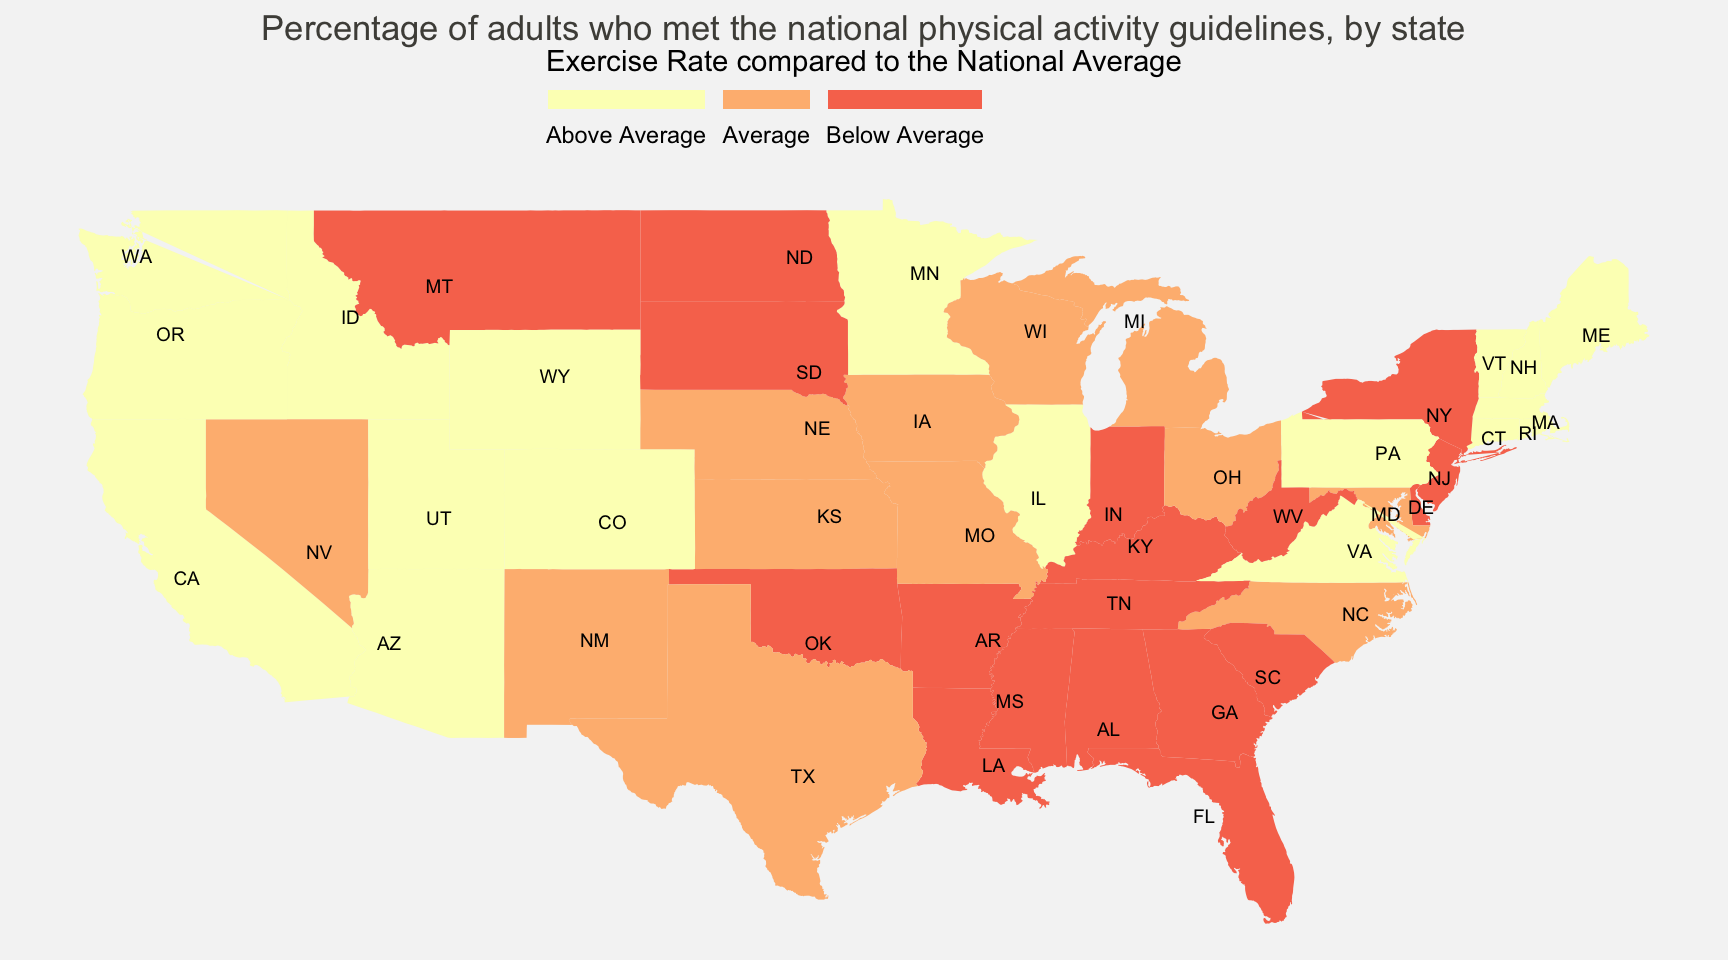
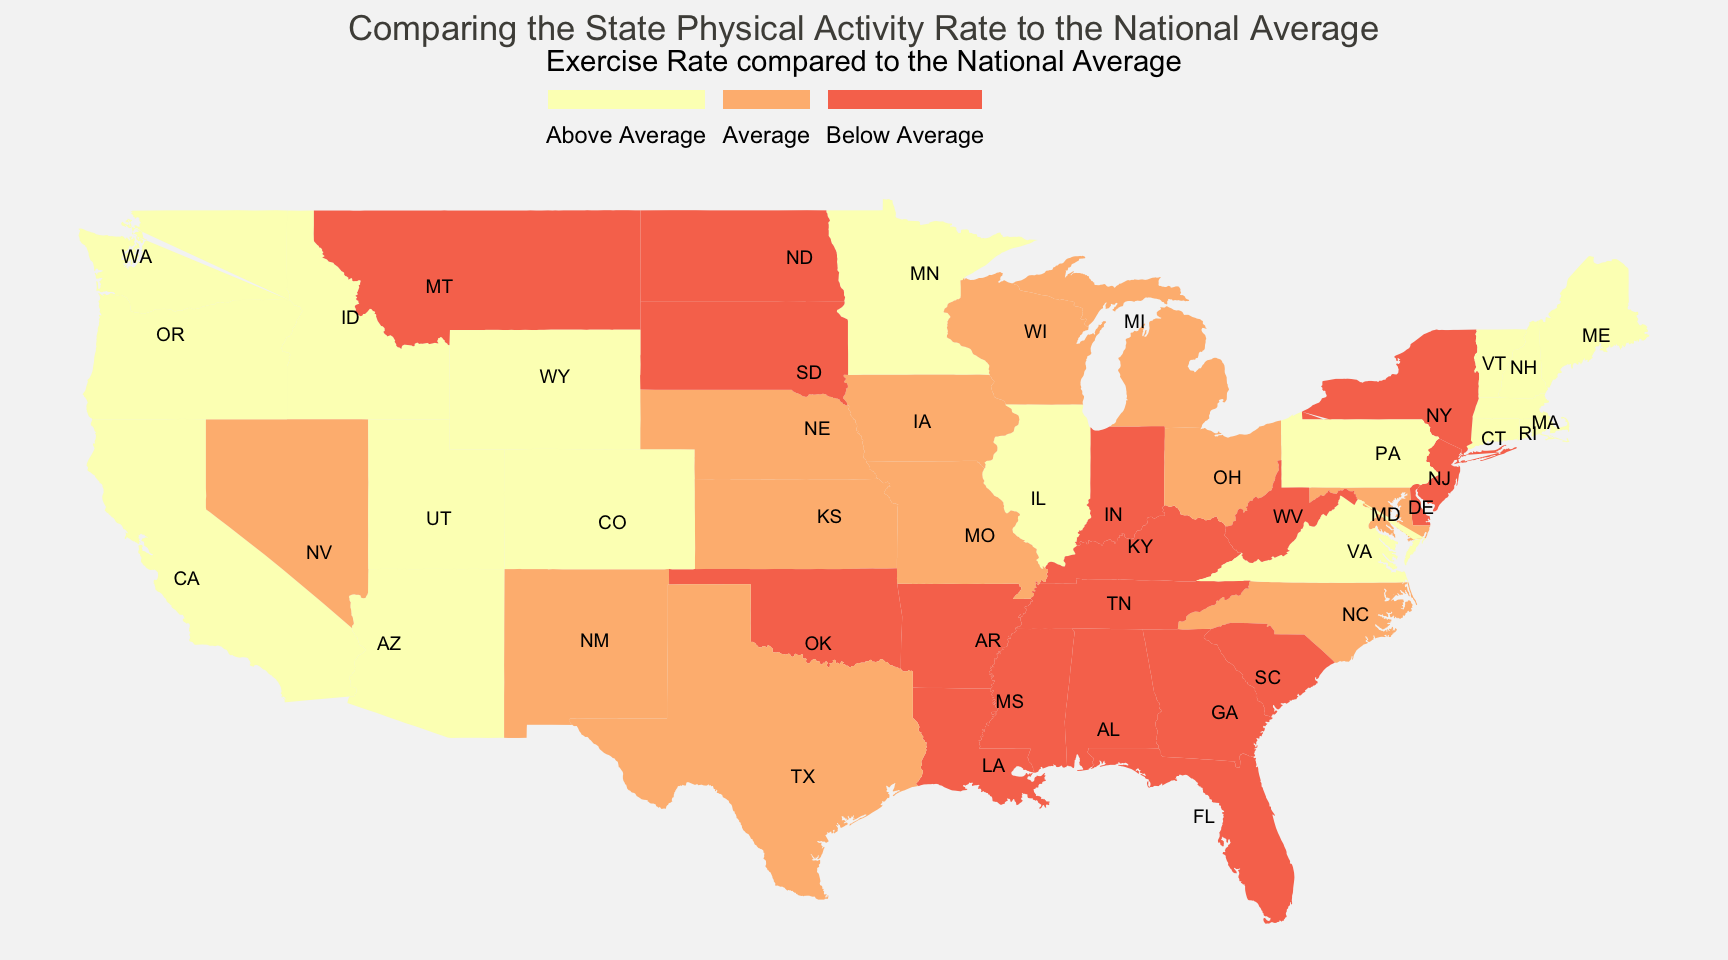
Built site for gh-pages

Changed region(s): [[0.1562, 0.0, 0.8438, 0.0625]]

diff --git a/posts/week01/index.html b/posts/week01/index.html
@@ -423,7 +423,7 @@ Note
 <div id="fig-statecomparison2" class="quarto-figure quarto-figure-center anchored">
 <figure class="figure">
 <p><img src="index_files/figure-html/fig-statecomparison2-1.png" class="img-fluid figure-img" width="864"></p>
-<p></p><figcaption class="figure-caption">Figure 3: This figure shows the percentage of adults in each state who met the Physical Activity Guidelines. The percentage in each state is compared to the National Average 22 percent, and is categorised into 3 groups, namely Above Average, Average and Below Average. Counties in the central such as Colorado and Utah as well as along the west coasts such as California are much more active. In contrast, most of the states in the southeast are below than the national average, such as Kentucky, Mississippi, West Virginia, Georgia and South Carolina.</figcaption><p></p>
+<p></p><figcaption class="figure-caption">Figure 3: This figure compares the State Physical Activity Rate to the National Average - 22 percent, and is categorised into 3 groups, namely Above Average, Average and Below Average. Counties in the central such as Colorado and Utah as well as along the west coasts such as California are much more active. In contrast, most of the states in the southeast are below than the national average, such as Kentucky, Mississippi, West Virginia, Georgia and South Carolina.</figcaption><p></p>
 </figure>
 </div>
 </div>
@@ -442,8 +442,8 @@ Note
 <div id="fig-ranking" class="quarto-figure quarto-figure-center anchored">
 <figure class="figure">
 
-<div id="htmlwidget-1b0934843827ede45c94" class="reactable html-widget" style="width:auto;height:auto;"></div>
-<script type="application/json" data-for="htmlwidget-1b0934843827ede45c94">{"x":{"tag":{"name":"Reactable","attribs":{"data":{"State":["COLORADO","IDAHO","NEW HAMPSHIRE","MASSACHUSETTS","VERMONT","UTAH","WASHINGTON","MINNESOTA","WYOMING","ARIZONA","OREGON","PENNSYLVANIA","RHODE ISLAND","CALIFORNIA","CONNECTICUT","ILLINOIS","MAINE","VIRGINIA","KANSAS","MICHIGAN","MISSOURI","NEBRASKA","NEVADA","NEW MEXICO","OHIO","TEXAS","WISCONSIN","IOWA","MARYLAND","NORTH CAROLINA","FLORIDA","NEW JERSEY","DELAWARE","GEORGIA","LOUISIANA","MONTANA","NORTH DAKOTA","ALABAMA","OKLAHOMA","NEW YORK","SOUTH DAKOTA","TENNESSEE","WEST VIRGINIA","ARKANSAS","INDIANA","KENTUCKY","SOUTH CAROLINA","MISSISSIPPI"],"Adults reaching the National Physical Guidelines (%)":[32,31,30,29,29,28,28,27,27,26,25,25,25,24,24,24,24,24,23,23,23,23,23,23,23,23,23,22,22,22,21,21,20,20,20,20,20,19,19,18,17,17,16,15,15,14,14,13],"Ranking":[1,2,3,4,5,6,7,8,9,10,11,12,13,14,15,16,17,18,19,20,21,22,23,24,25,26,27,28,29,30,31,32,33,34,35,36,37,38,39,40,41,42,43,44,45,46,47,48]},"columns":[{"accessor":"State","name":"State","type":"character"},{"accessor":"Adults reaching the National Physical Guidelines (%)","name":"Adults reaching the National Physical Guidelines (%)","type":"numeric"},{"accessor":"Ranking","name":"Ranking","type":"numeric"}],"searchable":true,"defaultSorted":[{"id":"Ranking","desc":false}],"defaultPageSize":5,"paginationType":"jump","showPageInfo":true,"minRows":5,"theme":{"borderColor":"#dfe2e5","stripedColor":"#f6f8fa","highlightColor":"#f0f5f9","style":{"fontFamily":"sans-serif"}},"dataKey":"43b48f15bfbcdfe8797e82bcba1de035"},"children":[]},"class":"reactR_markup"},"evals":[],"jsHooks":[]}</script>
+<div id="htmlwidget-e278629da506dac7e636" class="reactable html-widget" style="width:auto;height:auto;"></div>
+<script type="application/json" data-for="htmlwidget-e278629da506dac7e636">{"x":{"tag":{"name":"Reactable","attribs":{"data":{"State":["COLORADO","IDAHO","NEW HAMPSHIRE","MASSACHUSETTS","VERMONT","UTAH","WASHINGTON","MINNESOTA","WYOMING","ARIZONA","OREGON","PENNSYLVANIA","RHODE ISLAND","CALIFORNIA","CONNECTICUT","ILLINOIS","MAINE","VIRGINIA","KANSAS","MICHIGAN","MISSOURI","NEBRASKA","NEVADA","NEW MEXICO","OHIO","TEXAS","WISCONSIN","IOWA","MARYLAND","NORTH CAROLINA","FLORIDA","NEW JERSEY","DELAWARE","GEORGIA","LOUISIANA","MONTANA","NORTH DAKOTA","ALABAMA","OKLAHOMA","NEW YORK","SOUTH DAKOTA","TENNESSEE","WEST VIRGINIA","ARKANSAS","INDIANA","KENTUCKY","SOUTH CAROLINA","MISSISSIPPI"],"Adults reaching the National Physical Guidelines (%)":[32,31,30,29,29,28,28,27,27,26,25,25,25,24,24,24,24,24,23,23,23,23,23,23,23,23,23,22,22,22,21,21,20,20,20,20,20,19,19,18,17,17,16,15,15,14,14,13],"Ranking":[1,2,3,4,5,6,7,8,9,10,11,12,13,14,15,16,17,18,19,20,21,22,23,24,25,26,27,28,29,30,31,32,33,34,35,36,37,38,39,40,41,42,43,44,45,46,47,48]},"columns":[{"accessor":"State","name":"State","type":"character"},{"accessor":"Adults reaching the National Physical Guidelines (%)","name":"Adults reaching the National Physical Guidelines (%)","type":"numeric"},{"accessor":"Ranking","name":"Ranking","type":"numeric"}],"searchable":true,"defaultSorted":[{"id":"Ranking","desc":false}],"defaultPageSize":5,"paginationType":"jump","showPageInfo":true,"minRows":5,"theme":{"borderColor":"#dfe2e5","stripedColor":"#f6f8fa","highlightColor":"#f0f5f9","style":{"fontFamily":"sans-serif"}},"dataKey":"43b48f15bfbcdfe8797e82bcba1de035"},"children":[]},"class":"reactR_markup"},"evals":[],"jsHooks":[]}</script>
 <p></p><figcaption class="figure-caption">Figure 5: Ranking of each state and Percentage of adults meeting the target physical guidelines. Colorado is the most active state with 32% of adults reaching the guideline while Mississippi is the least active state with 13% of adults meeting the guideline.</figcaption><p></p>
 </figure>
 </div>

diff --git a/index.html b/index.html
@@ -152,7 +152,7 @@ ul.task-list{list-style: none;}
 
 <div class="quarto-listing quarto-listing-container-default" id="listing-listing">
 <div class="list quarto-listing-default">
-<div class="quarto-post image-right" data-index="0" data-listing-date-sort="1662213600000" data-listing-file-modified-sort="1662432119948" data-listing-reading-time-sort="15.54">
+<div class="quarto-post image-right" data-index="0" data-listing-date-sort="1662213600000" data-listing-file-modified-sort="1662432265408" data-listing-reading-time-sort="15.47">
 <div class="thumbnail">
 <p><a href="./posts/week01/index.html"> <img src="./posts/week01/exercise.jpeg" class="thumnail-image"> </a></p>
 </div>
